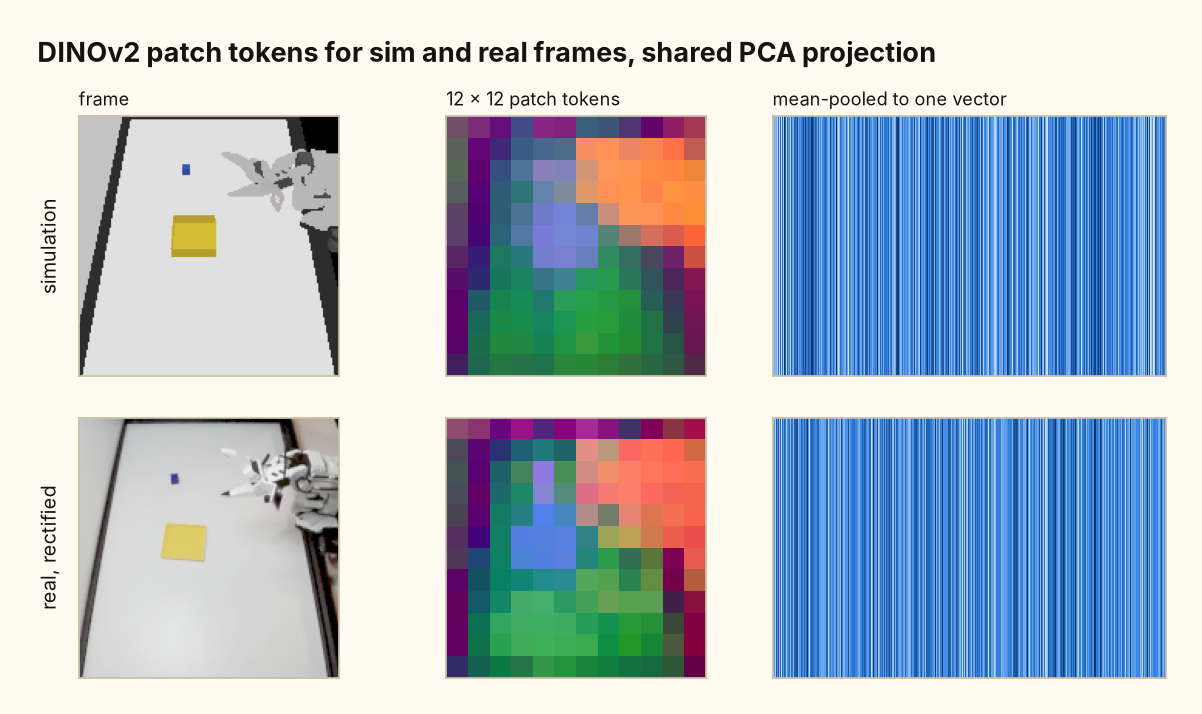
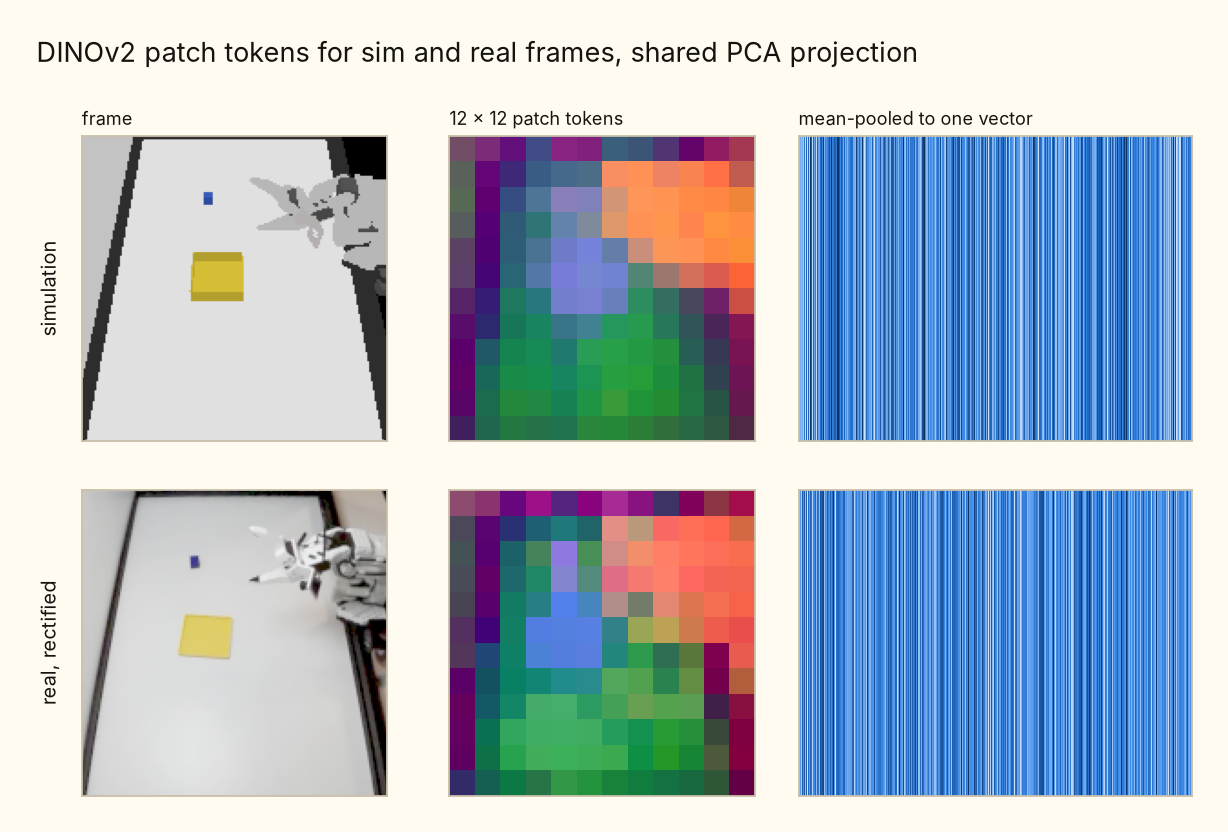
viz: measure the layout instead of guessing it, and drop bold
place_title() draws the figure, measures the tight bbox of everything on it, and puts the title
flush with the leftmost ink at a fixed gap above the topmost. That leftmost thing is usually the
y-axis label, which is why the title kept reading as indented from its own chart. span_label()
does the same for the group headings in fig4.

Regular weight throughout: at this size on a cream page the title already reads as the title.

Also: fig5's legend was floating well below the axis, and its right panel sat lower than its left
because equal aspect centres a shrunken axes in its cell. Both anchored north now.

diff --git a/blog-viz/style.py b/blog-viz/style.py
@@ -125,49 +125,55 @@ def apply():
     })
 
 
-# Vertical space above the plotting area, in INCHES rather than figure fractions, so a short
-# figure and a tall one get the same gap instead of the same proportion. Hand-tuning `top=` per
-# figure is what produced titles sitting on top of panels.
-_TITLE_INSET_IN = 0.30    # top of the page to the title's baseline area
-_TITLE_BAND_IN = 0.62     # total reserved for the title alone
-_HEADING_BAND_IN = 0.30   # extra, when panels carry their own headings
-_GROUP_BAND_IN = 0.42     # extra, when panels are grouped under a spanning label
+def _ink_bounds(fig, artists=None):
+    """(x0, x1, y1) in figure fractions of everything currently drawn.
 
-
-def title_block(fig, title, subtitle=None, *, left):
-    """Left-align a title (and optional subtitle) to the `left` rail.
-
-    Pass the same `left` the plotting area uses, so text and plot share one vertical guide.
-    Position is measured down from the top of the figure in inches, so it does not drift with
-    figure height.
+    Measured after a real draw rather than guessed from the gridspec, because what sticks out on
+    the left is the y-axis label and the tick labels, and what sticks out on top is a panel
+    heading. Guessing those margins is what kept titles landing on top of panels and sitting
+    indented from the content they belong to.
     """
-    h = fig.get_figheight()
-    top = 1.0 - _TITLE_INSET_IN / h
-    fig.text(left, top, title, ha="left", va="top", fontsize=T_TITLE, fontweight="bold", color=INK)
-    if subtitle:
-        gap = 0.26 / h
-        fig.text(left, top - gap, subtitle, ha="left", va="top", fontsize=T_SUB, color=MUTED)
-        return top - gap
-    return top
+    fig.canvas.draw()
+    r = fig.canvas.get_renderer()
+    boxes = []
+    for a in (artists if artists is not None else fig.axes):
+        b = a.get_tightbbox(r)
+        if b is not None and b.width > 0:
+            boxes.append(b)
+    if artists is None:
+        for t in fig.texts:
+            b = t.get_window_extent(r)
+            if b.width > 0:
+                boxes.append(b)
+    inv = fig.transFigure.inverted()
+    x0 = min(inv.transform((b.x0, 0))[0] for b in boxes)
+    x1 = max(inv.transform((b.x1, 0))[0] for b in boxes)
+    y1 = max(inv.transform((0, b.y1))[1] for b in boxes)
+    return x0, x1, y1
 
 
-def content_top(fig, *, headings=False, groups=False):
-    """The `top` a gridspec should use to clear the title, and whatever sits under it.
+def place_title(fig, text, *, gap_in=0.30):
+    """Put the title above everything, flush with the leftmost ink on the page.
 
-    `headings` if the panels carry their own titles, `groups` if a spanning label sits above those.
+    Call it LAST, once every axes and label exists. Regular weight: at this size on a cream page
+    the title already reads as the title, and bold makes it shout over the figure it introduces.
     """
-    band = _TITLE_BAND_IN
-    band += _HEADING_BAND_IN if headings else 0.0
-    band += _GROUP_BAND_IN if groups else 0.0
-    return 1.0 - band / fig.get_figheight()
+    x0, _, y1 = _ink_bounds(fig)
+    fig.text(x0, y1 + gap_in / fig.get_figheight(), text,
+             ha="left", va="bottom", fontsize=T_TITLE, color=INK)
 
 
-def group_label_y(fig):
-    """Figure fraction for a label spanning a group of panels, and for its underline."""
+def span_label(fig, axes, text, *, gap_in=0.13):
+    """A label over a group of panels, with a rule under it spanning exactly those panels."""
+    from matplotlib.lines import Line2D
+
+    x0, x1, y1 = _ink_bounds(fig, artists=axes)
     h = fig.get_figheight()
-    band = _TITLE_BAND_IN + _HEADING_BAND_IN + _GROUP_BAND_IN
-    text_y = 1.0 - (band - 0.30) / h
-    return text_y, text_y - 0.055 / h
+    rule_y = y1 + gap_in / h
+    fig.add_artist(Line2D([x0, x1], [rule_y, rule_y], transform=fig.transFigure,
+                          color=AXIS, lw=1.0))
+    fig.text((x0 + x1) / 2, rule_y + 0.05 / h, text, ha="center", va="bottom",
+             fontsize=T_LABEL, color=INK)
 
 
 def footnote(fig, text, *, left, y=0.02):

diff --git a/blog-viz/fig4_what_the_encoder_sees.py b/blog-viz/fig4_what_the_encoder_sees.py
@@ -61,20 +61,7 @@ def main():
     fig = plt.figure(figsize=(12.4, 5.6))
     left = 0.055
     gs = fig.add_gridspec(1, 4, left=left, right=0.985, bottom=0.03, wspace=0.055,
-                          top=style.content_top(fig, headings=True, groups=True))
-
-    style.title_block(fig, "Overhead camera view at each encoder's input resolution", left=left)
-
-    # Name the encoder over the panels it consumes, so a panel is never just a resolution.
-    for label, (a, b) in (("squint CNN", (0, 1)), ("DINOv2 heads", (2, 3))):
-        x0 = gs[0, a].get_position(fig).x0
-        x1 = gs[0, b].get_position(fig).x1
-        text_y, rule_y = style.group_label_y(fig)
-        fig.text((x0 + x1) / 2, text_y, label, ha="center", va="bottom",
-                 fontsize=style.T_LABEL, color=style.INK, fontweight="bold")
-        fig.add_artist(plt.Line2D([x0, x1], [rule_y, rule_y], transform=fig.transFigure,
-                                  color=style.AXIS, lw=1.0))
-
+                          top=0.97)
 
     panels = [
         (sc.blow_up(v128, DISPLAY), "128 px render", None),
@@ -83,6 +70,7 @@ def main():
         (sc.blow_up(v168, DISPLAY), "168 px, 12 × 12 patches", 12),
     ]
 
+    axes = []
     for i, (img, heading, grid) in enumerate(panels):
         ax = fig.add_subplot(gs[i])
         ax.imshow(img, interpolation="nearest")
@@ -94,7 +82,13 @@ def main():
         # Ring the cube in every panel, so the eye can follow the one object that disappears.
         ax.add_patch(Circle((cube_frac[0] * DISPLAY, cube_frac[1] * DISPLAY),
                             DISPLAY * 0.055, fill=False, ec=style.ORANGE, lw=1.6))
+        axes.append(ax)
 
+    # Name the encoder over the panels it consumes, so a panel is never just a resolution.
+    style.span_label(fig, axes[0:2], "squint CNN")
+    style.span_label(fig, axes[2:4], "DINOv2 heads")
+
+    style.place_title(fig, "Overhead camera view at each encoder's input resolution")
     return fig
 
 

diff --git a/blog-viz/fig5_spawn_zone.py b/blog-viz/fig5_spawn_zone.py
@@ -51,9 +51,7 @@ def main():
     left = 0.06
     gs = fig.add_gridspec(1, 2, left=left, right=0.975, bottom=0.16,
                           width_ratios=[1.0, 1.30], wspace=0.14,
-                          top=style.content_top(fig, headings=True))
-
-    style.title_block(fig, "Spawn zone in the overhead view, and sampled object positions", left=left)
+                          top=0.97)
 
 
     # ---- The zone, seen by the camera that constrains it ---------------------------------
@@ -81,10 +79,13 @@ def main():
     # Equal aspect, but with the limits pinned to the zone plus a small margin: left to itself it
     # pads whichever axis the panel shape leaves slack in, which reads as zone that isn't there.
     ax2.set_aspect("equal", adjustable="box")
+    # Equal aspect shrinks the axes and centres it in its cell, which would drop this panel's
+    # heading below the image panel's. Anchor north so both headings sit on one line.
+    ax2.set_anchor("N")
     ax2.set_xlabel("along the rail (m)")
     ax2.set_ylabel("across it (m)")
     style.clean_axes(ax2, grid_axis=None)
-    ax2.legend(loc="lower left", bbox_to_anchor=(0.0, -0.34), ncol=2, frameon=False,
+    ax2.legend(loc="upper left", bbox_to_anchor=(0.0, -0.12), ncol=2, frameon=False,
                fontsize=style.T_TICK, labelcolor=style.MUTED, handletextpad=0.4, borderaxespad=0.0)
     style.panel_title(ax2, f"{EPISODES} episodes", color=style.INK)
     # Limits last: equal aspect will otherwise pad whichever axis the panel shape leaves slack in,
@@ -92,6 +93,7 @@ def main():
     ax2.set_xlim(cy - hy - 0.02, cy + hy + 0.02)
     ax2.set_ylim(cx - hx - 0.02, cx + hx + 0.02)
 
+    style.place_title(fig, "Spawn zone in the overhead view, and sampled object positions")
     return fig
 
 

diff --git a/blog-viz/fig1_encoder_curves.py b/blog-viz/fig1_encoder_curves.py
@@ -53,10 +53,8 @@ def main():
     left, right = 0.075, 0.985
     gs = fig.add_gridspec(1, 2, width_ratios=[1.55, 1.0], wspace=0.16,
                           left=left, right=right, bottom=0.15,
-                          top=style.content_top(fig))
+                          top=0.97)
     ax_a, ax_b = fig.add_subplot(gs[0]), fig.add_subplot(gs[1])
-
-    style.title_block(fig, "Evaluation success rate vs environment steps, by vision encoder", left=left)
 
     # ---- Panel A: the four encoders, current recipe --------------------------------------
     ends = []
@@ -88,7 +86,7 @@ def main():
         if abs(y - value) > 1e-3:
             ax_a.plot([xe, xe + 0.18], [value, y], color=color, lw=0.9, alpha=0.7, zorder=3)
         ax_a.text(xe + 0.28, y, label, color=color, fontsize=style.T_TICK,
-                  va="center", ha="left", fontweight="bold")
+                  va="center", ha="left")
 
     # ---- Panel B: the CNN either side of the recipe change --------------------------------
     for run in PREVIOUS:
@@ -98,7 +96,7 @@ def main():
     ax_b.plot(x, rolling(y), color=style.ENCODER_COLOR["squint"], lw=2.0, zorder=3,
               path_effects=style.RELIEF[style.GOLD])
     ax_b.text(12.2, rolling(y)[-1], "after", color=style.GOLD, fontsize=style.T_TICK,
-              va="center", ha="left", fontweight="bold")
+              va="center", ha="left")
     ax_b.text(9.2, 0.045, "5 runs, previous recipe", color=style.MUTED,
               fontsize=style.T_TICK, ha="center", va="bottom")
 
@@ -114,6 +112,7 @@ def main():
     ax_b.set_yticks([0, 0.25, 0.5, 0.75, 1.0])
     ax_b.set_yticklabels([])
 
+    style.place_title(fig, "Evaluation success rate vs environment steps, by vision encoder")
     return fig
 
 

diff --git a/blog-viz/fig2_reward_ladder.py b/blog-viz/fig2_reward_ladder.py
@@ -36,8 +36,6 @@ def main():
     left = 0.075
     ax = fig.add_axes([left, 0.10, 0.965 - left, 0.76])
 
-    style.title_block(fig, "Reward value by task stage, with each stage's shaping range", left=left)
-
 
     for i, (label, floor, head, note) in enumerate(STAGES):
         top = floor + head
@@ -56,7 +54,7 @@ def main():
             ax.plot([i - BAR_W / 2, i + BAR_W / 2], [floor, floor],
                     color=style.ORANGE, lw=5.0, solid_capstyle="round", zorder=3)
         ax.text(i, floor - 0.30, f"{floor:g}", ha="center", va="top",
-                fontsize=style.T_TICK, color=style.INK, fontweight="bold")
+                fontsize=style.T_TICK, color=style.INK)
         ax.text(i, -1.15, label, ha="center", va="top", linespacing=1.45,
                 fontsize=style.T_LABEL, color=style.INK)
 
@@ -87,6 +85,7 @@ def main():
     ax.legend(handles=handles, loc="upper left", bbox_to_anchor=(0.005, 0.90), frameon=False, fontsize=style.T_TICK,
               labelcolor=style.MUTED, handletextpad=0.5, borderaxespad=0.2)
 
+    style.place_title(fig, "Reward value by task stage, with each stage's shaping range")
     return fig
 
 

diff --git a/blog-viz/fig7_dino_features.py b/blog-viz/fig7_dino_features.py
@@ -82,9 +82,7 @@ def main():
     left = 0.065
     gs = fig.add_gridspec(2, 3, left=left, right=0.90, bottom=0.03,
                           wspace=0.07, hspace=0.16, width_ratios=[1, 1, 1.15],
-                          top=style.content_top(fig, headings=True))
-
-    style.title_block(fig, "DINOv2 patch tokens for sim and real frames, shared PCA projection", left=left)
+                          top=0.97)
 
 
     rows = [("simulation", over_sim, pca_sim), ("real, rectified", over_real, pca_real)]
@@ -114,6 +112,7 @@ def main():
         if r == 0:
             style.panel_title(ax, "mean-pooled to one vector", color=style.INK)
 
+    style.place_title(fig, "DINOv2 patch tokens for sim and real frames, shared PCA projection")
     return fig
 
 

diff --git a/blog-viz/fig6_domain_randomization.py b/blog-viz/fig6_domain_randomization.py
@@ -58,9 +58,7 @@ def main():
     left = 0.045
     gs = fig.add_gridspec(2, DRAWS + 1, left=left, right=0.99, bottom=0.03,
                           wspace=0.035, hspace=0.06,
-                          top=style.content_top(fig, headings=True))
-
-    style.title_block(fig, "Wrist and overhead views across domain-randomization draws", left=left)
+                          top=0.97)
 
 
     for col, (wrist, overhead) in enumerate(cols):
@@ -76,6 +74,7 @@ def main():
                 style.panel_title(ax, "off" if col == 0 else f"draw {col}",
                                   color=style.INK if col == 0 else style.FAINT)
 
+    style.place_title(fig, "Wrist and overhead views across domain-randomization draws")
     return fig
 
 

diff --git a/blog-viz/fig3_calibration.py b/blog-viz/fig3_calibration.py
@@ -58,9 +58,7 @@ def main():
     left = 0.055
     gs = fig.add_gridspec(2, 4, left=left, right=0.985, bottom=0.03,
                           wspace=0.06, hspace=0.30,
-                          top=style.content_top(fig, headings=True))
-
-    style.title_block(fig, "Sim render, raw capture, rectified capture and blend, per camera", left=left)
+                          top=0.97)
 
 
     for row, cam in enumerate(sc.CAMERA_ORDER):
@@ -82,6 +80,7 @@ def main():
 
 
     env.close()
+    style.place_title(fig, "Sim render, raw capture, rectified capture and blend, per camera")
     return fig
 
 
